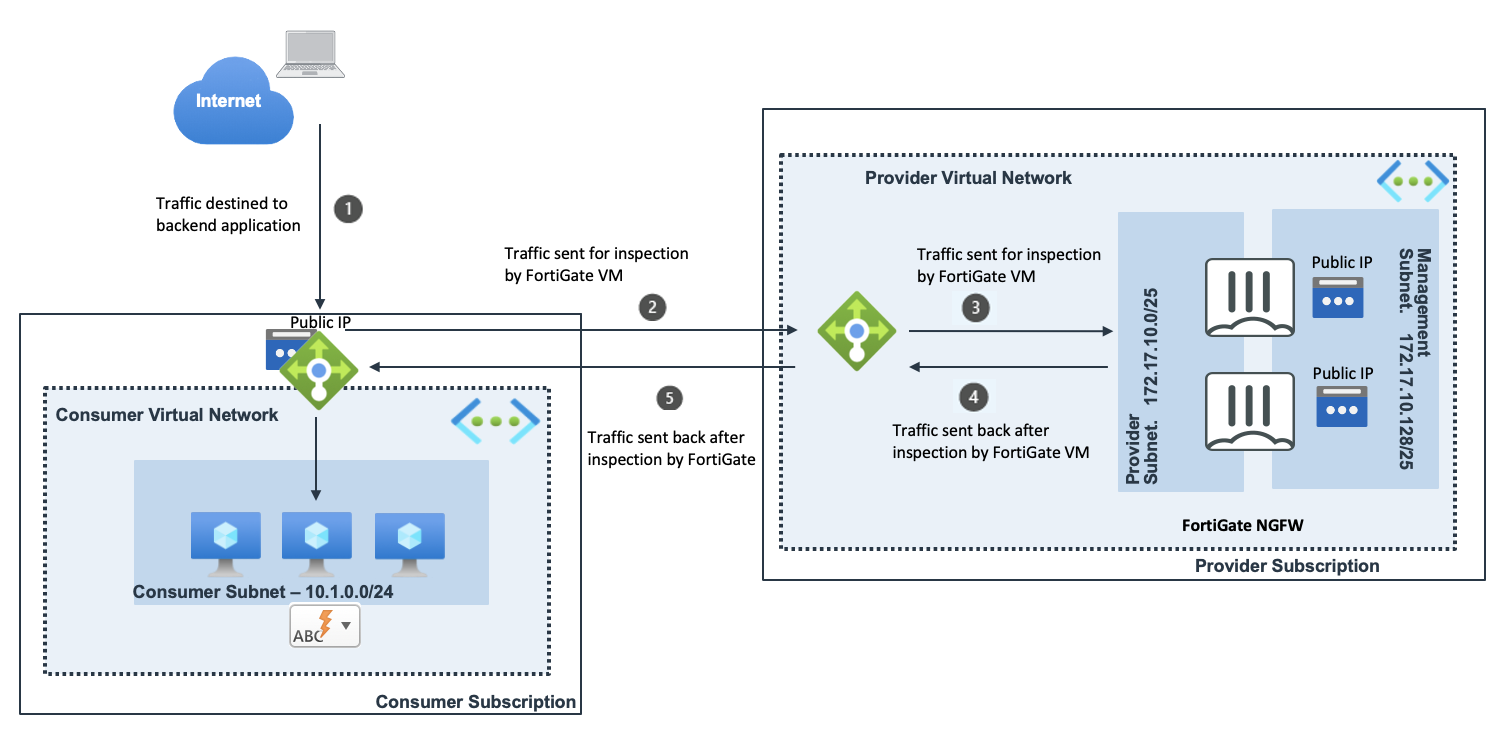
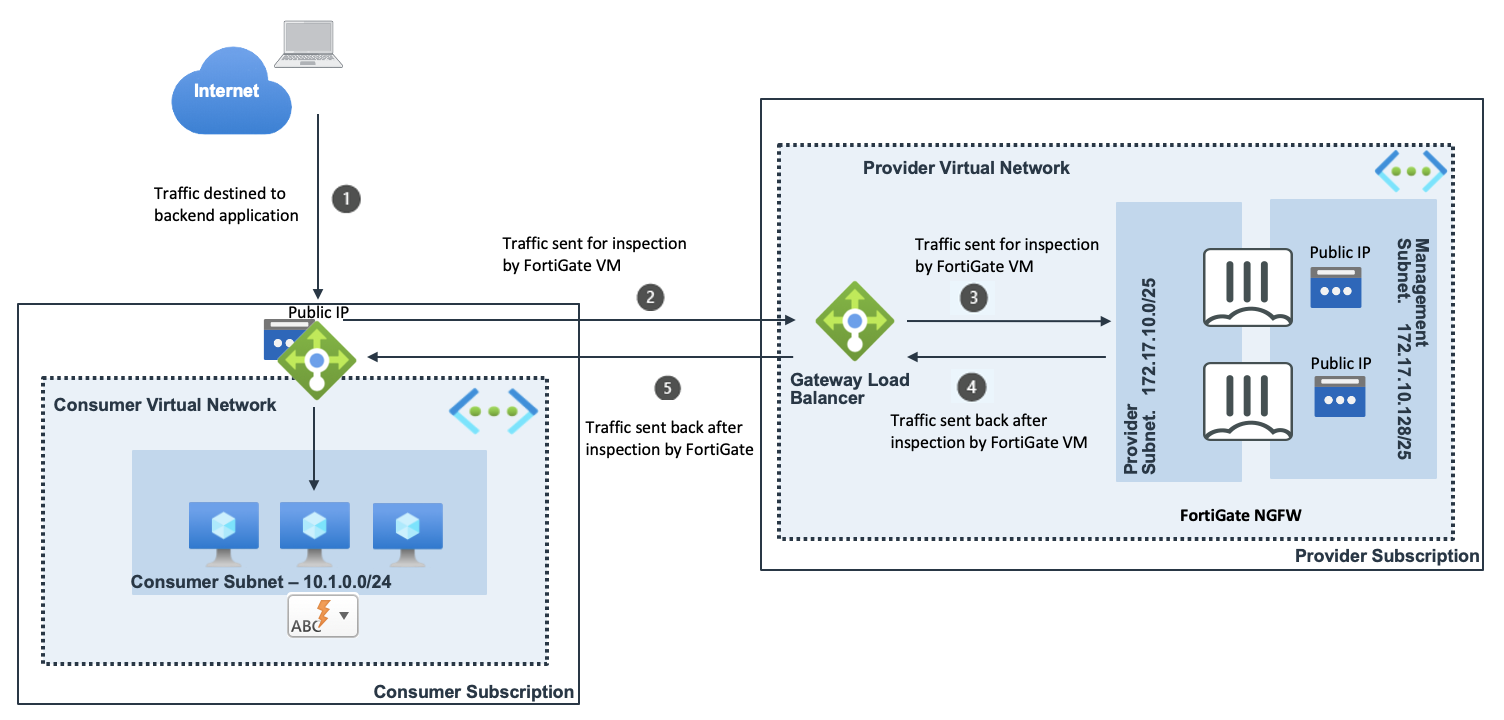
Updated diagram

diff --git a/GWLB/README.md b/GWLB/README.md
@@ -9,7 +9,7 @@ This ARM template deploys a pair of FortiGate Next-Generation Firewall accompani
 
 ## Design
 
-As you can see in the diagram, the Gateway Load Balancer and associated backend pool will sit as a shim in between the Standard Load Balancer Frontend and Backend.  Thus all traffic in or out of the Standard Load balancer will be forwarded to the Gateway Load Balancer and inspected by a FortiGate.
+As you can see in the diagram, the Gateway Load Balancer and associated backend pool will sit as a shim in between the Standard Load Balancer Frontend and Backend.  Thus all traffic in or out of the Standard Load balancer will be forwarded to the Gateway Load Balancer and inspected by a FortiGate. The primary template here deploys the right side (Provider Side) of this diagram.  A sample consumer template is available here as well, but is not necessarily meant for production.
 
 ![FortiGate-VM azure design](images/gwlbdesign.png)
 
@@ -25,7 +25,7 @@ For the deployment, you can use the Azure Portal, Azure CLI, Powershell or Azure
 
 ## Requirements and limitations
 
-This template only deploys the Gateway Load Balancer and FortiGates.  It does not provide the consumer side of the deployment.  A typical use case may have a Managed Security Services Provider deploy the FortiGates in their subscription, and one of their customers deploy the consumer side of the solution in their subscription, using the subscription ID and Resource Group of the MSSP's deployment to link the two together.  A sample consumer template is also included.
+This template only deploys the Gateway Load Balancer and FortiGates (i.e. the provider section of the above diagram).  It does not provide the consumer side of the deployment.  A typical use case may have a Managed Security Services Provider deploy the FortiGates in their subscription, and one of their customers deploy the consumer side of the solution in their subscription, using the subscription ID and Resource Group of the MSSP's deployment to link the two together.  A sample consumer template is also included.
 
 The ARM template deploys different resources and it is required to have the access rights and quota in your Microsoft Azure subscription to deploy the resources.
 
